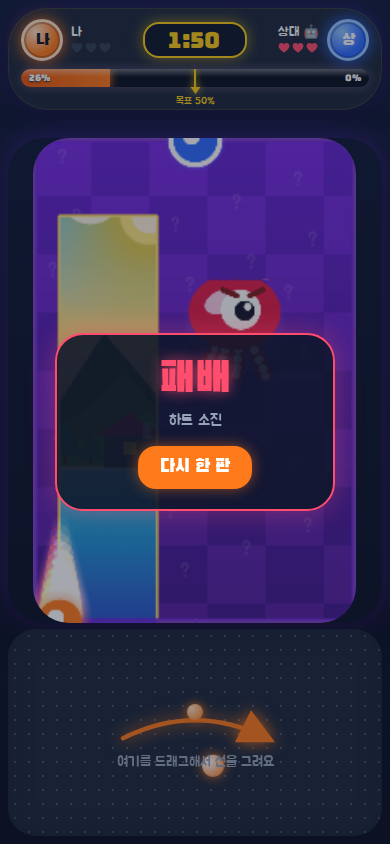
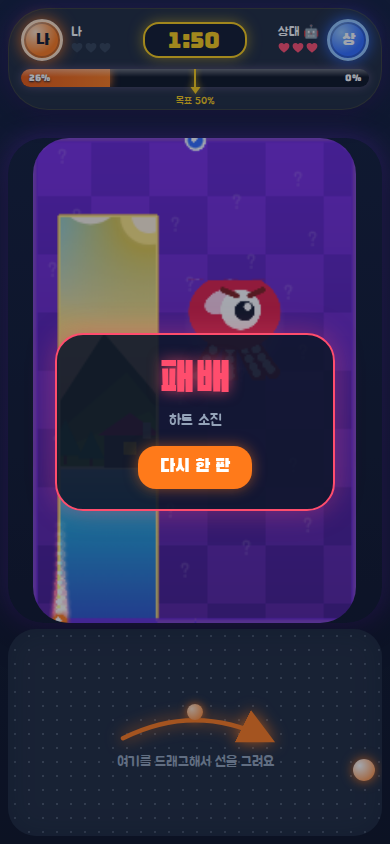
docs(qa): 390x844 mid-draw shot with the smaller player orb
Capture the second live line so the neon tip stays visible around the
15-cell orb, and keep a Playwright assertion for that frame.

diff --git a/tests/e2e/cover-layout.spec.ts b/tests/e2e/cover-layout.spec.ts
@@ -106,6 +106,27 @@ test.describe('Cover spike 390x844', () => {
     await page.screenshot({ path: path.join(SCREENSHOT_DIR, 'results.png') });
   });
 
+  test('player orb is small enough to show the line tip mid-draw', async ({ page }) => {
+    test.setTimeout(60000);
+    await page.goto('/?qa=1');
+    await page.waitForSelector('#game-container canvas');
+    await page.click('#botBtn');
+    await page.waitForFunction(() => document.getElementById('app')?.classList.contains('playing'));
+    await page.waitForFunction(
+      () => {
+        const d = window.__turfDebug;
+        return Boolean(
+          d &&
+            d.ownedCells.p1 >= 15000 &&
+            d.drawing.p1 &&
+            d.trails.p1 >= 55,
+        );
+      },
+      { timeout: 45000 },
+    );
+    await page.screenshot({ path: path.join(SCREENSHOT_DIR, 'orb-mid-draw.png') });
+  });
+
   test('loss result is from my perspective and keeps board width', async ({ page }) => {
     test.setTimeout(90000);
     await page.goto('/?qa=lose');
